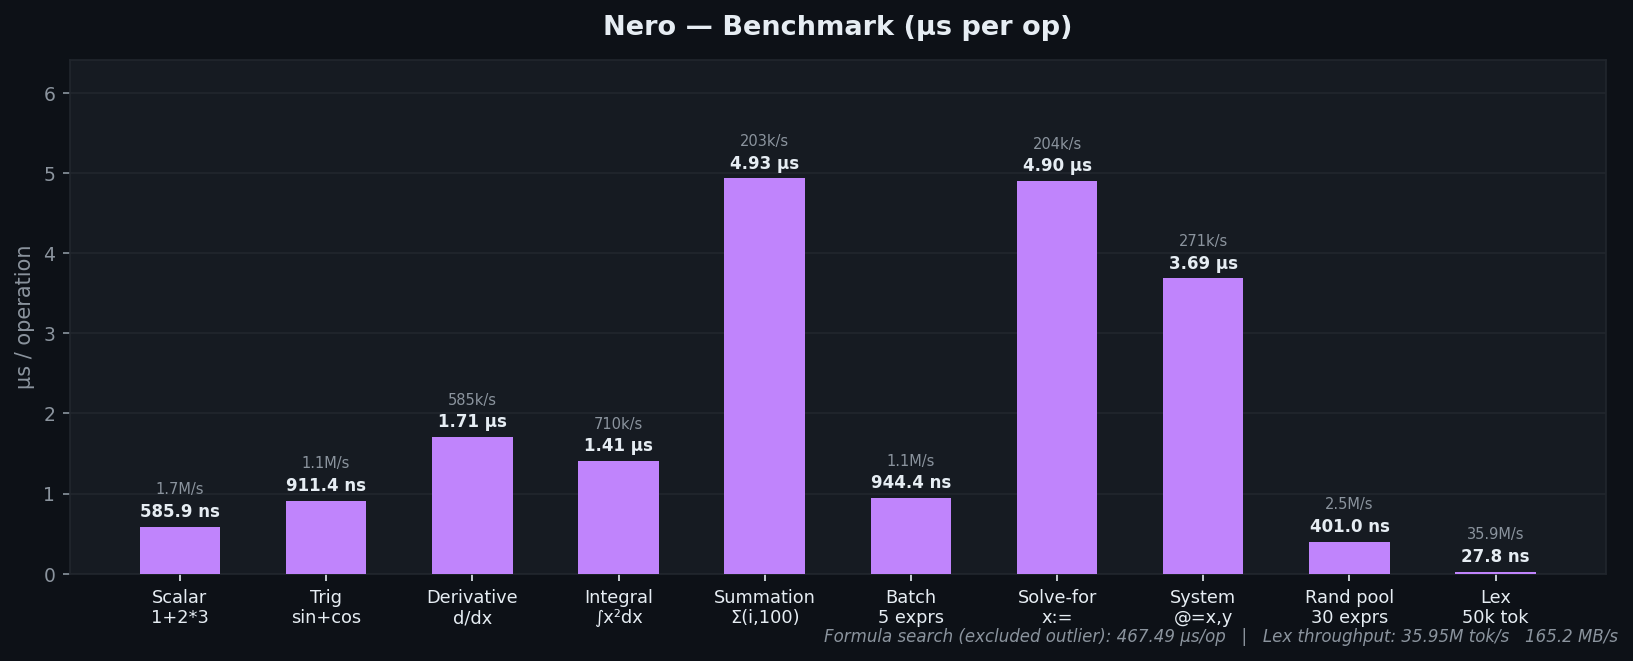
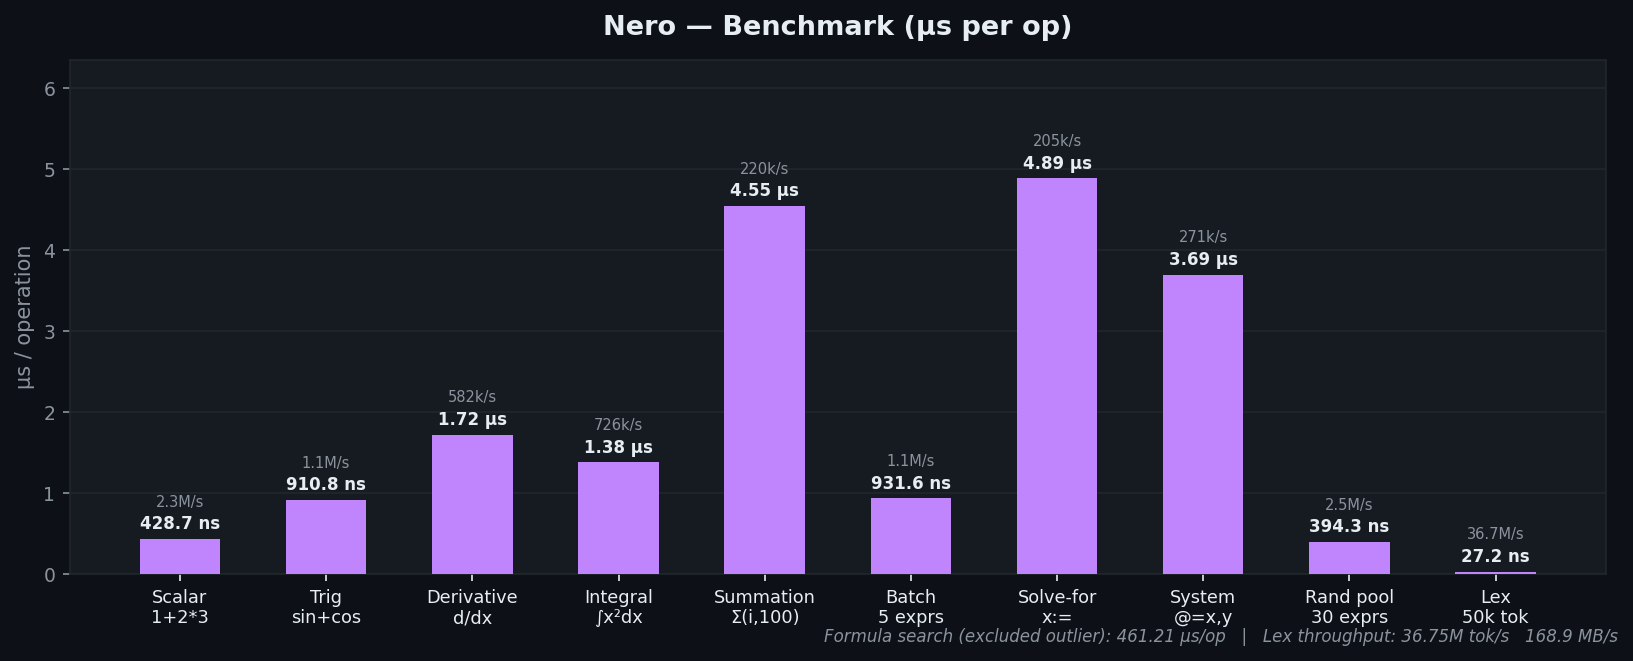
chore: improve readme

diff --git a/README.md b/README.md
@@ -31,6 +31,50 @@ cmake --build build-wasm
 C:\msys64\usr\bin\bash.exe -lc "cd '$(pwd)' && cmake --build build"
 ```
 
+### Add built WASM library to HMTL
+```html
+<!DOCTYPE html>
+<html lang="en">
+	<head>
+		<meta charset="UTF-8" />
+		<link rel="icon" type="image/webp" href="/nero.webp" />
+		<meta name="viewport" content="width=device-width, initial-scale=1.0" />
+		<!-- [ADD THIS LINE BELOW] -->
+        <script src="/wasm/Nero.js"></script>
+		<title>Everett</title>
+	</head>
+	<body class="vscode-dark">
+		<div id="root"></div>
+		<script type="module" src="/src/main.tsx"></script>
+	</body>
+</html>
+
+```
+### Example File Structure
+```
+.
+├── index.html
+├── package.json
+├── public
+│   └── wasm
+│       ├── Nero.js
+│       └── Nero.wasm
+├── src
+│   ├── App.css
+│   ├── App.tsx
+│   ├── Nero.d.ts
+│   ├── index.css
+│   ├── main.tsx
+│   ├── nero_wasm_interface.ts
+│   ├── utils.ts
+│   └── vite-env.d.ts
+├── tsconfig.app.json
+├── tsconfig.json
+├── tsconfig.node.json
+├── vite.config.ts
+└── yarn.lock
+```
+
 ### Installation as a CMake dependency
 
 ```cmake
@@ -178,17 +222,17 @@ Supported:
 
 | Benchmark      | µs / op    | ops / sec    | op unit |
 | -------------- | ---------- | ------------ | ------- |
-| Scalar         | 0.59 µs    | 1.71 M/s     | op      |
+| Scalar         | 0.43 µs    | 2.33 M/s     | op      |
 | Trig           | 0.91 µs    | 1.10 M/s     | op      |
-| Derivative     | 1.71 µs    | 585.5 k/s    | op      |
-| Integral       | 1.41 µs    | 710.2 k/s    | op      |
-| Summation      | 4.93 µs    | 202.7 k/s    | op      |
-| Batch          | 0.94 µs    | 1.06 M/s     | expr    |
-| Formula search | 467.49 µs  | 2.1 k/s      | op      |
-| Solve-for      | 4.90 µs    | 204.1 k/s    | op      |
-| System solver  | 3.69 µs    | 271.4 k/s    | op      |
-| Random pool    | 0.40 µs    | 2.49 M/s     | expr    |
-| Lex            | 0.03 µs    | 35.95 M/s    | token   |
+| Derivative     | 1.72 µs    | 582.4 k/s    | op      |
+| Integral       | 1.38 µs    | 725.7 k/s    | op      |
+| Summation      | 4.55 µs    | 220.0 k/s    | op      |
+| Batch          | 0.93 µs    | 1.07 M/s     | expr    |
+| Formula search | 461.21 µs  | 2.2 k/s      | op      |
+| Solve-for      | 4.89 µs    | 204.6 k/s    | op      |
+| System solver  | 3.69 µs    | 270.6 k/s    | op      |
+| Random pool    | 0.39 µs    | 2.54 M/s     | expr    |
+| Lex            | 0.03 µs    | 36.75 M/s    | token   |
 
 <details>
 <summary>Raw numbers</summary>
@@ -196,20 +240,20 @@ Supported:
 ```
 === Nero Benchmarks ===
 
-Scalar: 1 + 2 * 3                                           58.59 ms       1706897/s
-Trig: sin(pi/6) + cos(pi/3)                                 45.57 ms       1097267/s
-Derivative: d/dx(x^3) at x=2                                17.08 ms        585593/s
-Integral: int_0^1 x^2 dx                                     7.04 ms        710101/s
-Summation: sum_{i=1}^{100}(i)                               24.67 ms        202639/s
-Batch (5 unit-carrying exprs)                               47.22 ms        211753/s
-Formula search (acceleration target)                       467.49 ms          2139/s
-Solve-for: x^2 - 4 ; x :=                                   14.70 ms        204030/s
-System solver: x+y=5, x-y=1 ; @=x,y                          7.37 ms        271463/s
-Random pool (30 exprs, 1000 rounds)                         12.03 ms         83124/s
+Scalar: 1 + 2 * 3                                           42.87 ms       2332643/s
+Trig: sin(pi/6) + cos(pi/3)                                 45.54 ms       1097972/s
+Derivative: d/dx(x^3) at x=2                                17.17 ms        582302/s
+Integral: int_0^1 x^2 dx                                     6.89 ms        725659/s
+Summation: sum_{i=1}^{100}(i)                               22.73 ms        220020/s
+Batch (5 unit-carrying exprs)                               46.58 ms        214693/s
+Formula search (acceleration target)                       461.21 ms          2168/s
+Solve-for: x^2 - 4 ; x :=                                   14.66 ms        204627/s
+System solver: x+y=5, x-y=1 ; @=x,y                          7.39 ms        270630/s
+Random pool (30 exprs, 1000 rounds)                         11.83 ms         84499/s
 
 --- Lex Throughput ---
-Lex: 50k-token string (all token types)                    695.49 ms           719/s
-  Tokens/sec: 35.95M   Throughput: 165.2 MB/s
+Lex: 50k-token string (all token types)                    680.31 ms           735/s
+  Tokens/sec: 36.75M   Throughput: 168.9 MB/s
 ```
 
 </details>
@@ -253,11 +297,11 @@ Precompiled WASM artifacts are also available on the [GitHub Releases](https://g
 
 ### TypeScript interface
 
-Copy `dimension_wasm_interface.ts` into your project alongside the generated `Nero.js`/`Nero.wasm` files, then:
+Copy `nero_wasm_interface.ts` into your project alongside the generated `Nero.js`/`Nero.wasm` files, then:
 
 ```typescript
 import createModule from './Nero.js';
-import { DimensionalEvaluator } from './dimension_wasm_interface';
+import { DimensionalEvaluator } from './nero_wasm_interface';
 
 const Module = await createModule();
 const evaluator = new DimensionalEvaluator(Module);
